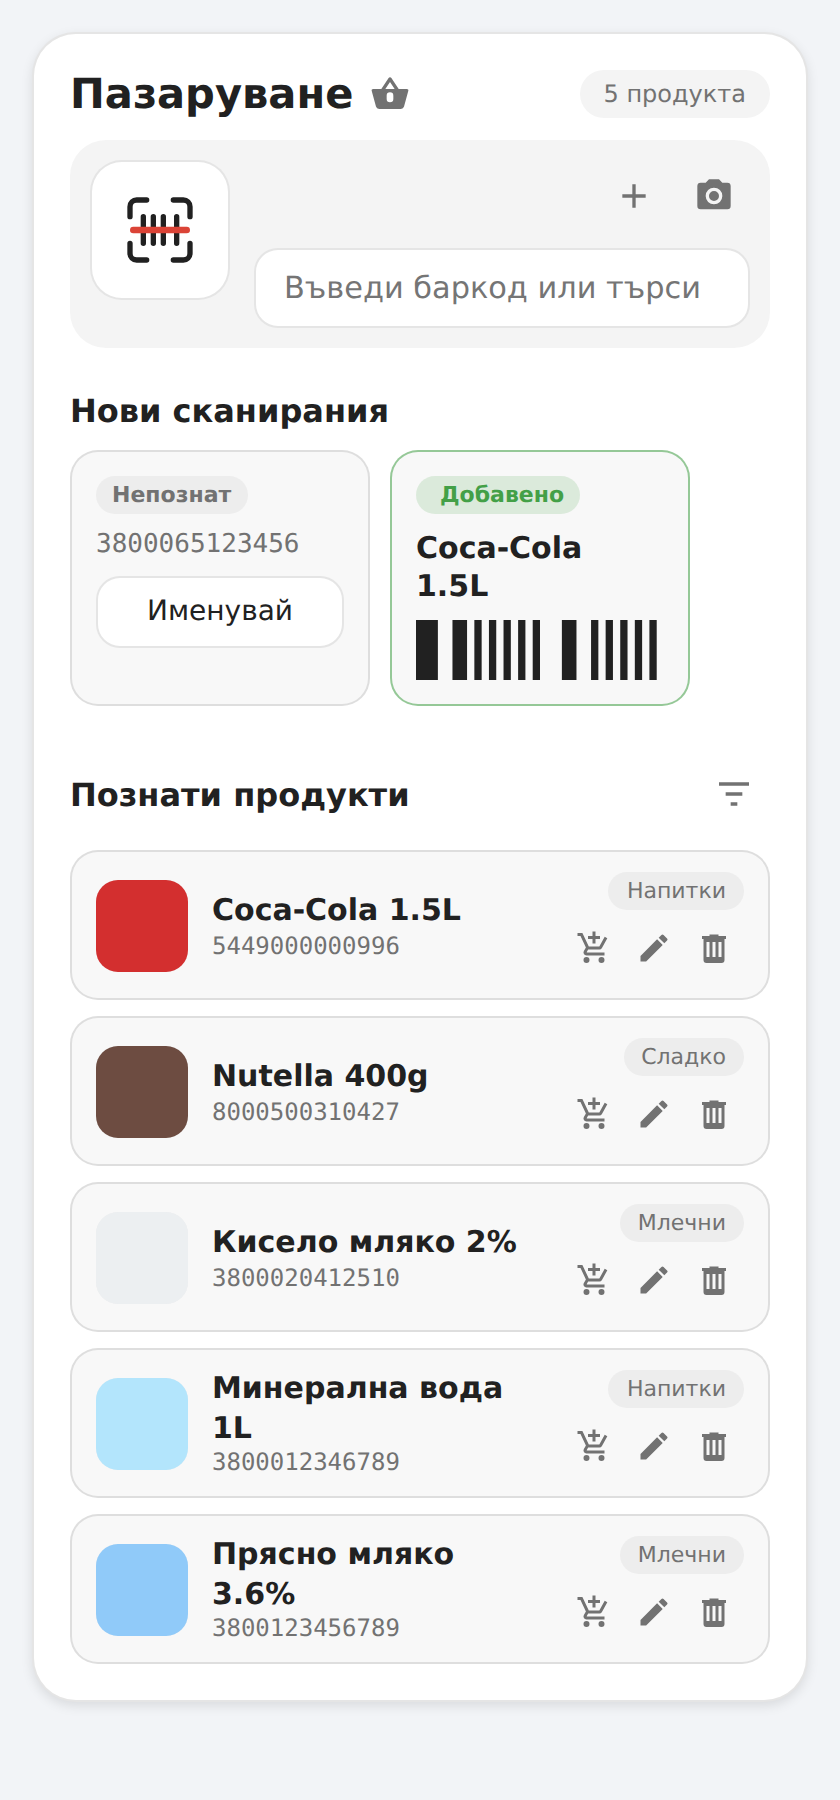
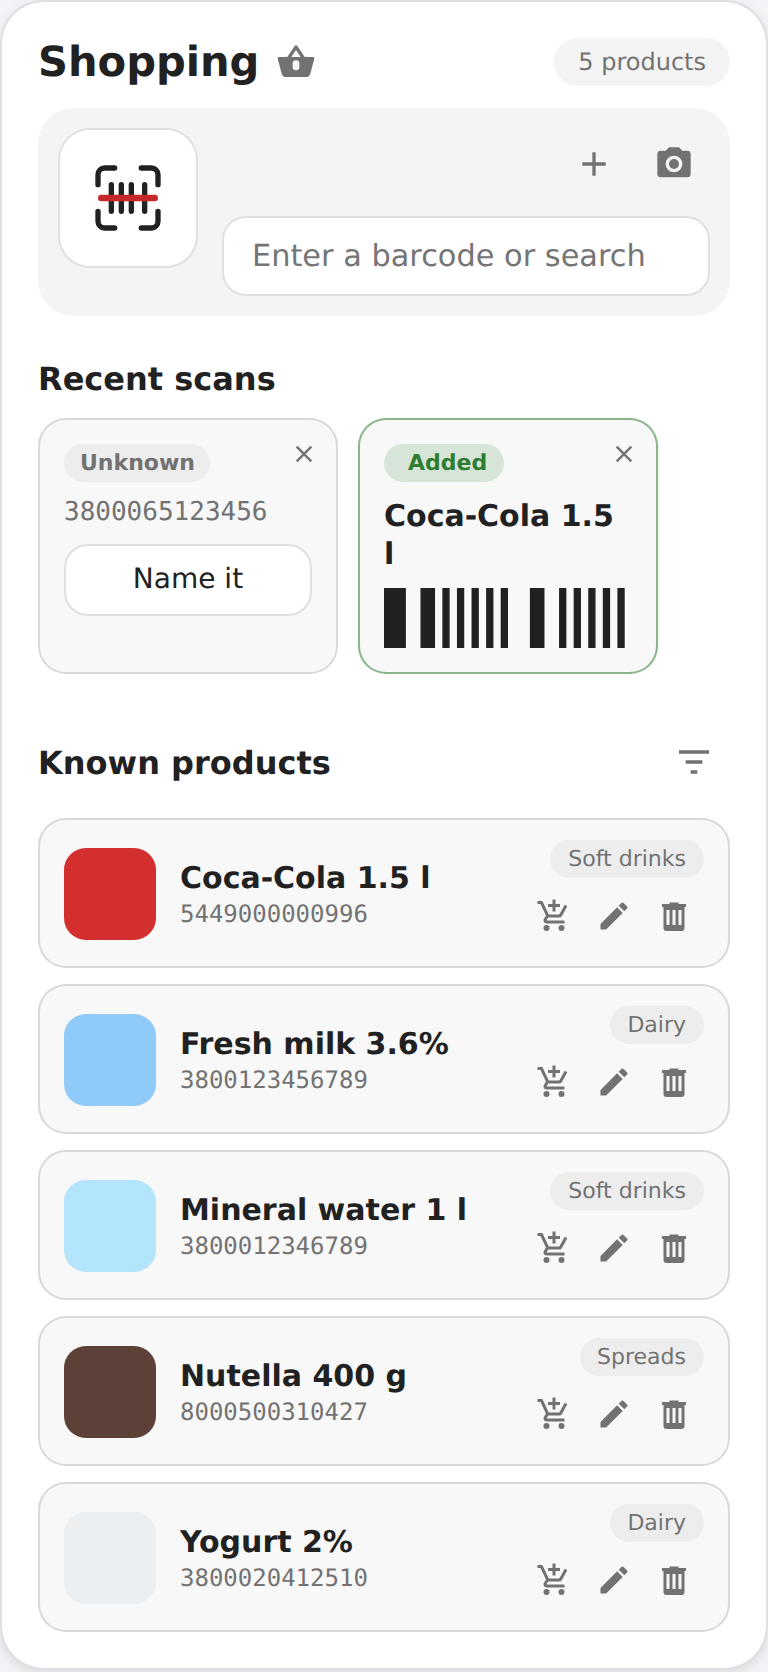
Bring the README up to date, in English, with English screenshots
The screenshots were of a Bulgarian card; they are the same card in English
now. Adds a Languages section naming both, and the examples that were in
Bulgarian - the similar-product matching and what the card says when a scan
counts up - are in English with it.

diff --git a/README.md b/README.md
@@ -15,6 +15,14 @@ a rename inside the Home Assistant frontend cannot leave you with an invisible
 input field or a missing button. It ships as a single file, so there are no
 sub-modules that can get stuck in a browser cache.
 
+## Languages
+
+**Bulgarian and English.** The card follows the language of the person using
+Home Assistant, or the `language` option when that is set; anything else falls
+back to English. Product names are whatever the integration stored — the
+language asked of Open Food Facts is a setting of the integration, and names you
+type in yourself are kept exactly as typed.
+
 ## Requirements
 
 The [HomeBasket integration](https://github.com/ivan1mihaylov/HomeBasket) has
@@ -36,7 +44,7 @@ Copy `dist/homebasket-card.js` to `config/www/homebasket/homebasket-card.js`
 and register it under **Settings → Dashboards → Resources**:
 
 ```
-URL:  /local/homebasket/homebasket-card.js?v=0.1.0
+URL:  /local/homebasket/homebasket-card.js?v=0.6.0
 Type: JavaScript Module
 ```
 
@@ -61,8 +69,7 @@ title: Shopping
 | `show_products` | `true` | Show the list of learned products. |
 | `zxing_url` | `null` | Only for browsers without a built-in barcode detector — see below. |
 
-All options are also editable in the visual card editor. The interface is
-translated into English and Bulgarian.
+All options are also editable in the visual card editor.
 
 ## Product photos
 
@@ -71,8 +78,8 @@ Products are shown with a picture wherever one is available:
 - **Automatically** — the integration stores the product image Open Food Facts
   returns, and the card loads it from there.
 - **Your own** — tap a product's thumbnail (or the pencil) and press the square
-  camera button. On a phone that opens the camera; on a desktop it opens the
-  file picker. The photo is scaled down in the browser before it is sent, and
+  camera button at the top of the sheet. On a phone that opens the camera; on a
+  desktop it opens the file picker. The photo is scaled down in the browser before it is sent, and
   Home Assistant keeps it in its own storage — it is never served from a
   public path.
 
@@ -98,9 +105,9 @@ barcode joins it; ignore them and you get two separate products. A scan with
 nothing similar in the list never opens anything — it stays the one-beep path.
 
 Matching compares the words of the name and brand, ignoring sizes, and weighs
-each word by how many products already use it: in a fridge full of "мляко
-Верея", what identifies a product is "кисело". So a 900 g tub finds the 400 g
-one without matching every other dairy item.
+each word by how many products already use it: in a fridge full of "Vereya
+milk", the word that identifies a product is "yogurt". So a 900 g tub finds the
+400 g one without matching every other dairy item.
 
 The edit sheet lists a product's barcodes, each detachable except the first.
 
@@ -136,8 +143,9 @@ list, offline, and lands in the recent strip, so one product after another can
 be scanned without stopping. With
 [HomeBasket Lists](https://github.com/ivan1mihaylov/HomeBasket-Lists) as the
 shopping list, scanning something that is already on it counts one more of it
-and the card says so (*мляко в списъка: станаха 2*) rather than shrugging with
-"already on the list". Turn `open_known` on to have each known product
+and the card says so (*milk on the list: 2 now*) rather than shrugging with
+"already on the list" — unless that list is set to keep what it has, which the
+card reports just as plainly. Turn `open_known` on to have each known product
 open for editing instead.
 
 The same barcode read as UPC-A (twelve digits) and as EAN-13 (the same digits
